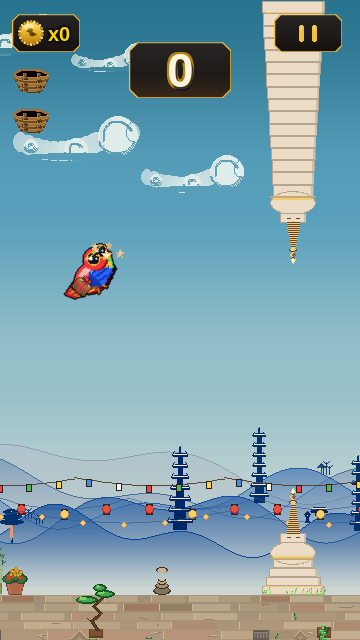
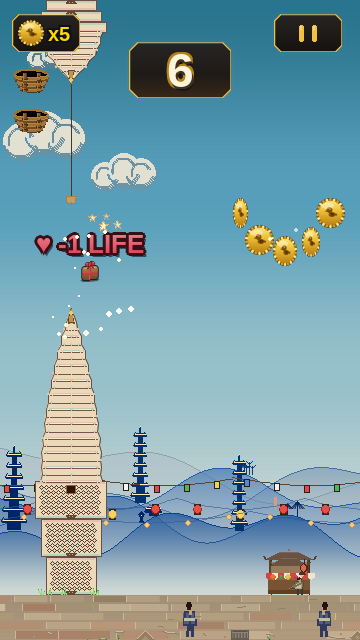
feat: hurt-parrot dizzy-dazed round_1
Claude-Session: https://claude.ai/code/session_01SYxW5bMXxMEcZRx1arfvCN

diff --git a/tools/render_hurt_dizzy_round1.py b/tools/render_hurt_dizzy_round1.py
@@ -1,0 +1,231 @@
+"""Round-1 review render for the `dizzy-dazed` hurt-parrot skin.
+
+Two halves to the look, deliberately kept apart:
+
+* Baked into the 64x60 frame — a compressed flap range, a beak nudged
+  down-right (a slack jaw), and a tail fanned wider than Pip ever holds
+  it. Body colours stay stock; the read comes from posture only.
+* Composited AFTER rotation — the orbiting stars. They must not tumble
+  with Pip's dive tilt, which is exactly what baking them in would do,
+  so the ring is drawn in screen space over the finished frame.
+
+Nothing here is wired into the game; `get_skin_frame` is monkey-patched
+for the duration of the shot only.
+"""
+import math
+import os
+import random
+import sys
+
+os.environ["SDL_AUDIODRIVER"] = "dummy"
+os.environ["SDL_VIDEODRIVER"] = "offscreen"
+sys.path.insert(0, "/home/user/skybit")
+
+import pygame
+
+pygame.init()
+
+import game.parrot as parrot_mod
+from game.draw import (
+    BIRD_RED, BIRD_RED_D, BIRD_BELLY, BIRD_BEAK, BIRD_BEAK_D,
+)
+from game.scenes import App
+
+OUT_DIR = "/home/user/skybit/docs/hurt-parrot-v1/dizzy-dazed"
+os.makedirs(OUT_DIR, exist_ok=True)
+OUT = f"{OUT_DIR}/round_1.png"
+
+_aaellipse = parrot_mod._aaellipse
+
+# Cream-white, not coin gold (255,210,70) — gold at this size on this
+# sky reads as a collectible and players would try to fly into it.
+STAR_FILL = (255, 245, 215)
+STAR_OUTLINE = (230, 180, 110)
+
+# Head ellipse in sprite space, straight out of `_build_frame`.
+HEAD_C = (47, 21)
+HEAD_RY = 11
+SPRITE_C = (parrot_mod.SPRITE_W / 2.0, parrot_mod.SPRITE_H / 2.0)
+
+TAIL_ROOT = (20, 32)
+TAIL_SPLAY_DEG = 3.0
+
+ORBIT_RX, ORBIT_RY = 13.0, 5.0
+ORBIT_TILT_DEG = 15.0
+ORBIT_GAP = 18.0          # clearance above the crown, per the brief
+
+
+def _rot_about(pt, origin, deg):
+    """Rotate in sprite/screen space (y grows downward), so a positive
+    `deg` here is a visually clockwise turn."""
+    a = math.radians(deg)
+    dx, dy = pt[0] - origin[0], pt[1] - origin[1]
+    return (origin[0] + dx * math.cos(a) - dy * math.sin(a),
+            origin[1] + dx * math.sin(a) + dy * math.cos(a))
+
+
+def _build_dizzy_frame(wing_angle_deg):
+    """Ports `parrot._build_frame` rather than overpainting it: the beak
+    nudge and the tail splay both MOVE existing geometry, and painting
+    over the original would leave its silhouette poking out."""
+    surf = pygame.Surface((parrot_mod.SPRITE_W, parrot_mod.SPRITE_H),
+                          pygame.SRCALPHA)
+
+    tail_colors = [
+        (200,  30,  40),
+        (240,  95,  40),
+        (255, 160,  55),
+        (255, 220,  80),
+    ]
+    for i, c in enumerate(tail_colors):
+        pts = [
+            (2 + i * 3, 26 + i * 2),
+            (14 + i, 24 + i),
+            (20 + i, 30 + i * 2),
+            (6 + i * 3, 36 + i * 2),
+        ]
+        # Fan pivots on the tail root so the wedges stay joined to the
+        # body while the outer ones swing furthest.
+        splay = (i - 1.5) * TAIL_SPLAY_DEG
+        pygame.draw.polygon(
+            surf, c, [_rot_about(p, TAIL_ROOT, splay) for p in pts])
+    pygame.draw.line(surf, BIRD_RED_D,
+                     _rot_about((4, 27), TAIL_ROOT, -3.0),
+                     _rot_about((18, 31), TAIL_ROOT, -3.0), 1)
+    pygame.draw.line(surf, BIRD_RED_D,
+                     _rot_about((6, 33), TAIL_ROOT, 3.0),
+                     _rot_about((20, 35), TAIL_ROOT, 3.0), 1)
+
+    _aaellipse(surf, (120, 20, 25), (34, 35), 19, 14)
+    _aaellipse(surf, BIRD_RED, (32, 32), 19, 14)
+    _aaellipse(surf, (255, 100, 100), (30, 29), 13, 8)
+    _aaellipse(surf, BIRD_BELLY, (28, 38), 12, 6)
+    sheen = pygame.Surface((28, 6), pygame.SRCALPHA)
+    pygame.draw.ellipse(sheen, (255, 230, 230, 160), sheen.get_rect())
+    surf.blit(sheen, (22, 21))
+
+    wing = parrot_mod._build_wing(wing_angle_deg)
+    surf.blit(wing, wing.get_rect(center=(34, 28)).topleft)
+
+    _aaellipse(surf, (150, 15, 20), (48, 23), 12, 11)
+    _aaellipse(surf, BIRD_RED, HEAD_C, 12, 11)
+    _aaellipse(surf, (255, 130, 130), (44, 24), 4, 3)
+    _aaellipse(surf, (255, 170, 170), (46, 16), 7, 3)
+
+    parrot_mod._draw_sunglasses(surf, 50, 20)
+
+    # Beak dropped 1 right / 2 down — a jaw hanging slightly open.
+    beak_pts = [(56, 23), (62, 26), (59, 30), (53, 28)]
+    pygame.draw.polygon(surf, BIRD_BEAK, beak_pts)
+    pygame.draw.polygon(surf, BIRD_BEAK_D, beak_pts, 1)
+    pygame.draw.line(surf, (255, 230, 150), (56, 24), (60, 26), 1)
+    pygame.draw.line(surf, BIRD_BEAK_D, (53, 26), (59, 27), 1)
+
+    pygame.draw.line(surf, BIRD_BEAK_D, (28, 45), (26, 49), 2)
+    pygame.draw.line(surf, BIRD_BEAK_D, (34, 45), (36, 49), 2)
+
+    return surf
+
+
+# Compressed flap range — a dazed bird beats shallower than a healthy one.
+HURT_ANGLES = (10, -5, -20, -35)
+_hurt_frames = [parrot_mod._add_outline(_build_dizzy_frame(a))
+                for a in HURT_ANGLES]
+_hurt_rot_cache = {}
+
+
+def get_hurt_parrot(frame_idx, tilt_deg):
+    fi = int(frame_idx) % 4
+    key = (fi, int(round(tilt_deg / 3.0)) * 3)
+    if key not in _hurt_rot_cache:
+        # Sign matches `parrot.get_parrot` exactly — negating it would pitch
+        # Pip nose-up on a dive and the pose would lie about the physics.
+        _hurt_rot_cache[key] = pygame.transform.rotozoom(
+            _hurt_frames[fi], key[1], 1.0)
+    return _hurt_rot_cache[key]
+
+
+def draw_star(surf, cx, cy, r, fill, outline):
+    pts = []
+    for i in range(5):
+        a = math.radians(-90 + i * 72)
+        pts.append((cx + r * math.cos(a), cy + r * math.sin(a)))
+        ai = math.radians(-90 + i * 72 + 36)
+        pts.append((cx + r * 0.42 * math.cos(ai), cy + r * 0.42 * math.sin(ai)))
+    ipts = [(int(round(x)), int(round(y))) for x, y in pts]
+    pygame.draw.polygon(surf, fill, ipts)
+    pygame.draw.polygon(surf, outline, ipts, 1)
+
+
+def draw_star_ring(surf, bird, phase_deg=0.0):
+    """Elliptical ring of 4 stars over the crown, drawn in SCREEN space.
+
+    Anchored off the head ellipse rotated by Pip's dive tilt, so the ring
+    follows the head without inheriting its roll — a ring that tumbled
+    with the sprite would read as debris, not as dizziness."""
+    tilt = bird.tilt_deg
+    hx, hy = _rot_about(HEAD_C, SPRITE_C, -tilt)
+    cx = bird.x + (hx - SPRITE_C[0])
+    cy = bird.y + (hy - SPRITE_C[1]) - HEAD_RY - ORBIT_GAP
+
+    stars = []
+    for i in range(4):
+        a = math.radians(phase_deg + i * 90.0)
+        ox, oy = ORBIT_RX * math.cos(a), ORBIT_RY * math.sin(a)
+        ox, oy = _rot_about((ox, oy), (0.0, 0.0), ORBIT_TILT_DEG)
+        depth = (math.sin(a) + 1.0) * 0.5      # 0 = far side, 1 = near
+        stars.append((depth, cx + ox, cy + oy))
+
+    # Depth is carried by size + opacity on a scratch layer. Darkening the
+    # fill instead would turn the far stars grey-brown, and a dirty star
+    # reads as a stain rather than as distance.
+    layer = pygame.Surface(surf.get_size(), pygame.SRCALPHA)
+    # Painter's order: far stars first so the near ones overlap them.
+    for depth, sx, sy in sorted(stars):
+        r = 3.0 + 2.0 * depth
+        alpha = int(165 + 90 * depth)
+        draw_star(layer, sx, sy, r,
+                  (*STAR_FILL, alpha), (*STAR_OUTLINE, alpha))
+    surf.blit(layer, (0, 0))
+
+
+_orig = parrot_mod.get_skin_frame
+parrot_mod.get_skin_frame = lambda skin_id, fi, tilt: get_hurt_parrot(fi, tilt)
+
+# Pillar/coin/ambient spawns roll off the global RNG, so the review shot
+# is only reproducible if the seed is pinned before the world exists.
+random.seed(11)
+
+app = App()
+app._start_play()
+w = app.world
+
+# Scroll the world in so the shot has pillars, coins and terrain rather
+# than an empty opener sky, then hold for a frame where Pip is near the
+# top of a flap arc: a full-dive pose hides the head under the tilt and
+# buries the star ring in the sprite.
+for _ in range(190):
+    if w.bird.y > 300:
+        w.flap()
+    w.update(1 / 60.0)
+for _ in range(600):
+    if w.bird.y > 300:
+        w.flap()
+    w.update(1 / 60.0)
+    if -16.0 < w.bird.tilt_deg < 4.0 and 250 < w.bird.y < 340:
+        break
+else:
+    raise SystemExit("no level-ish pose found — reseed")
+
+w.lives_remaining = 0
+try:
+    w.bird.on_last_life = True
+except AttributeError:
+    w.bird.__dict__["on_last_life"] = True
+
+app._render()
+draw_star_ring(app.screen, w.bird)
+pygame.image.save(app.screen, OUT)
+parrot_mod.get_skin_frame = _orig
+print(f"Saved: {OUT}  bird at ({w.bird.x:.0f},{w.bird.y:.0f}) "
+      f"tilt={w.bird.tilt_deg:.1f} score={w.score}")
